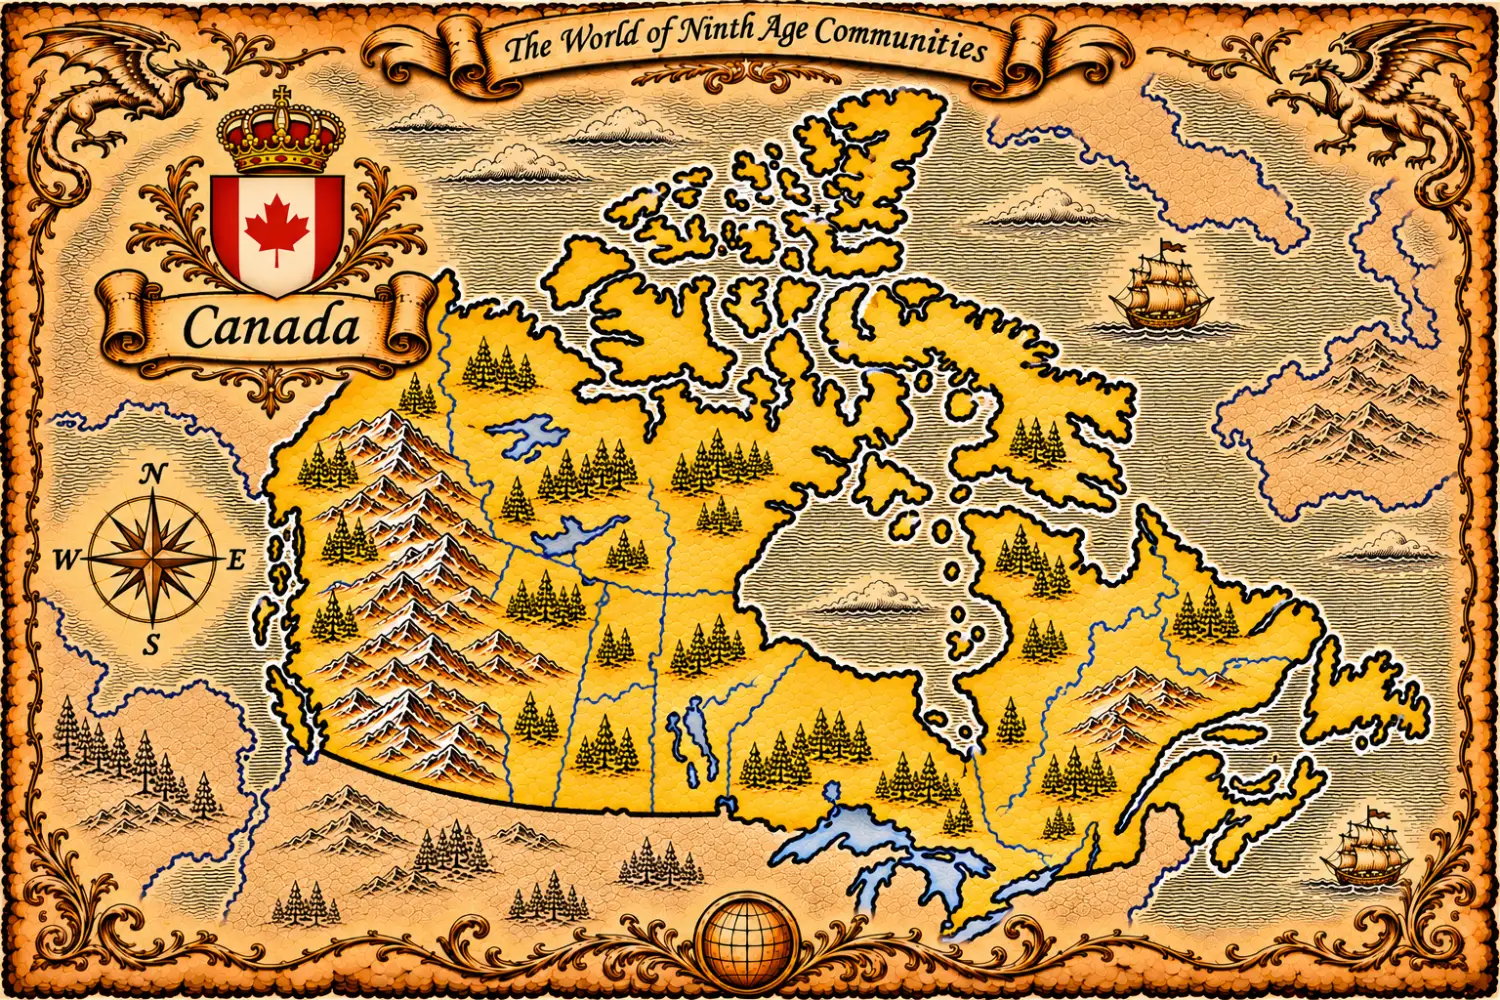
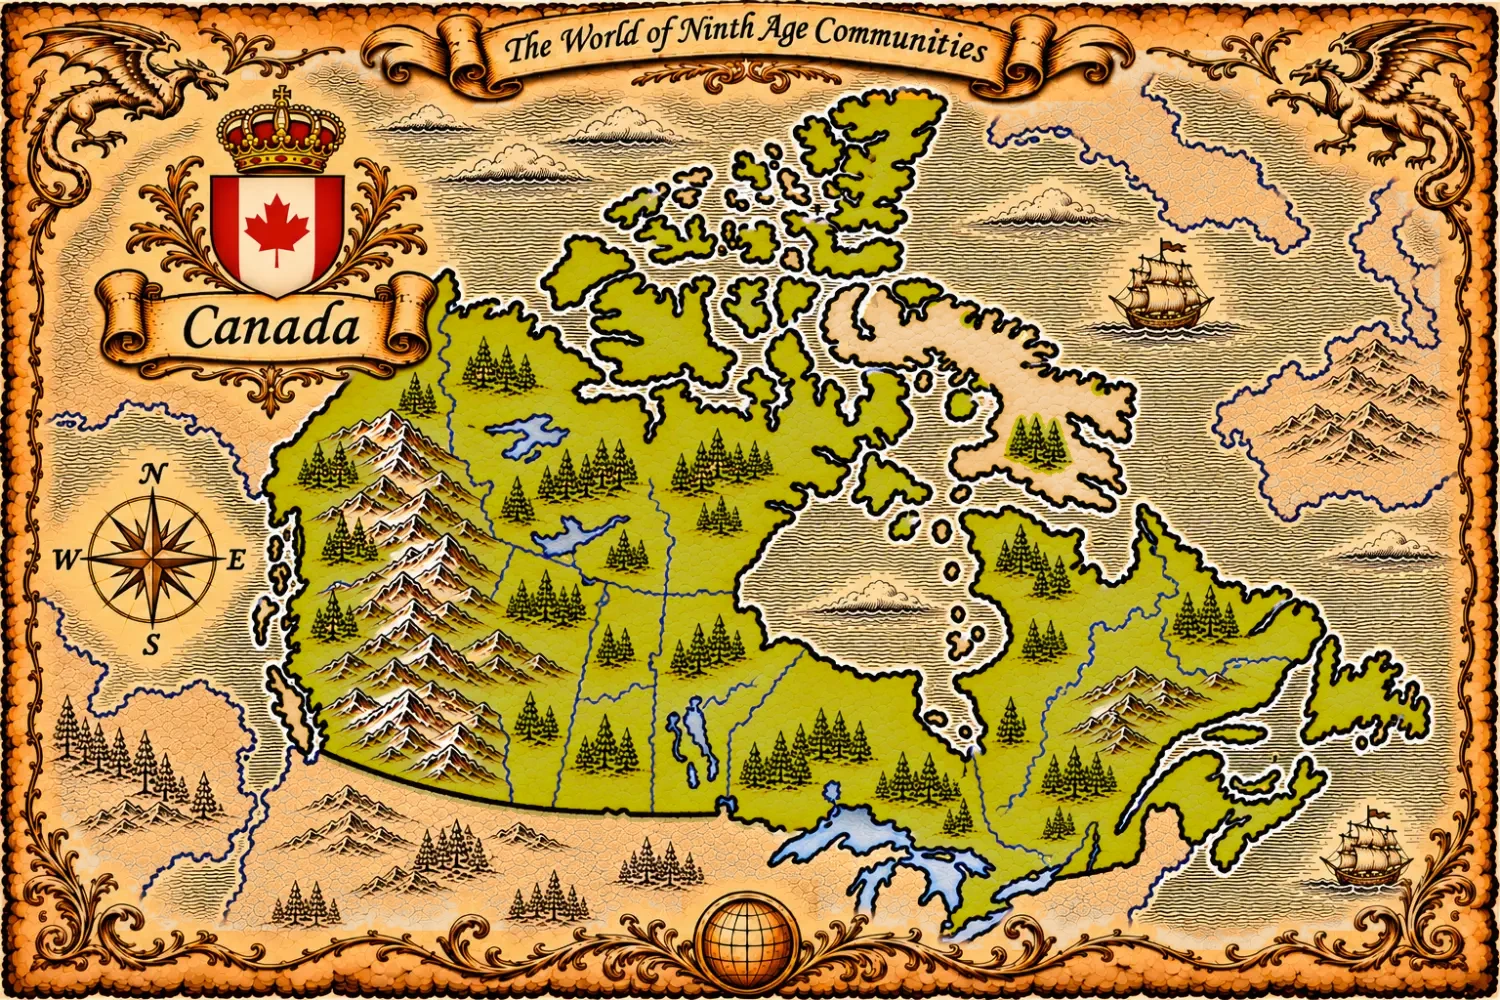
Paint every minimap's featured country grassy green
Adds tools/recolour_green.py, which shifts the gold land to the green of the
Romania map, fades gold given to neighbours to parchment and keeps the gold
originals for build_minimap.py.

diff --git a/tools/recolour_green.py b/tools/recolour_green.py
@@ -1,0 +1,120 @@
+"""Repaints a minimap's gold featured country as grassy green, like the
+Romania and United Kingdom maps were drawn.
+
+    python recolour_green.py ../data/country-maps/poland.json [more configs...]
+
+Only pixels inside the featured country (from its built hit map, plus a few
+pixels for its outline) with a gold-to-brown hue are changed: hue is moved to
+the green of the Romania map and value and saturation are matched to it, so
+ink, trees, rivers and lakes keep their drawing. The gold version is kept as
+assets/country-maps/gold/<name>.webp and is always the starting point, so
+re-running is safe; build_minimap.py reads that copy when it exists, so the
+gold detection keeps working. Run after repaint_land.py, which writes the
+image from its own originals.
+"""
+
+import json
+import shutil
+import sys
+from pathlib import Path
+
+import numpy as np
+from PIL import Image, ImageDraw, ImageFilter
+
+from hitmap_lib import dilate
+
+ROOT = Path(__file__).resolve().parent.parent
+
+# Romania's land in PIL's 0-255 HSV: median hue, saturation and value.
+TARGET_H, TARGET_S, TARGET_V = 40, 235, 190
+
+# Crest and name, compass, title, dragons, globe (fractions, as in build_minimap.py).
+DECOR = [(0.05, 0.08, 0.315, 0.44), (0.03, 0.44, 0.165, 0.76), (0.27, 0, 0.74, 0.10),
+         (0, 0, 0.16, 0.20), (0.84, 0, 1, 0.19), (0.455, 0.88, 0.545, 1)]
+
+
+def recolour(config_path):
+    cfg = json.loads(config_path.read_text(encoding="utf8"))
+    image_path = ROOT / cfg["image"]
+    gold = ROOT / "assets/country-maps/gold" / image_path.name
+    gold.parent.mkdir(parents=True, exist_ok=True)
+    if not gold.exists():
+        shutil.copy(image_path, gold)
+
+    art = Image.open(gold).convert("RGB")
+    hsv = np.asarray(art.convert("HSV")).astype(float)
+    h, s, v = hsv[..., 0], hsv[..., 1], hsv[..., 2]
+    hitmap = np.asarray(Image.open(config_path.with_name(f"{config_path.stem}-hitmap.png")))
+    names = json.loads(config_path.with_name(f"{config_path.stem}-hitmap.json").read_text(encoding="utf8"))["names"]
+    featured = hitmap == names.index(cfg["country"]) + 1
+
+    # Gold, ochre and brown ink count; blue water and grey ink do not.
+    golden = (h >= 8) & (h <= 48) & (s >= 60)
+
+    # The hit map leaves decorations blank, so land of the featured country
+    # under the crest's box is missing from it: spread into bright gold that
+    # touches the country there without crossing ink, then take in the drawing on it.
+    H, W = h.shape
+    reach = Image.new("1", (W, H), 0)
+    ImageDraw.Draw(reach).rectangle([0.2 * W, 0.08 * H, 0.315 * W, 0.44 * H], fill=1)  # right part of the crest's box
+    open_gold = np.asarray(reach) & (hitmap == 0) & (h >= 20) & (h <= 38) & (s >= 150) & (v > 170)
+    grown = featured.copy()
+    for _ in range(600):
+        step = grown.copy()
+        step[1:] |= grown[:-1]
+        step[:-1] |= grown[1:]
+        step[:, 1:] |= grown[:, :-1]
+        step[:, :-1] |= grown[:, 1:]
+        step &= open_gold | featured
+        if (step == grown).all():
+            break
+        grown = step
+    inside = dilate(featured, 3) | (dilate(grown & ~featured, 6) & (hitmap == 0))
+    core = inside & golden & (v > 150)
+    med_h, med_s, med_v = (np.median(c[core]) for c in (h, s, v))
+    print(f"{config_path.stem}: gold median h={med_h:.0f} s={med_s:.0f} v={med_v:.0f}")
+
+    weight = (inside & golden).astype(np.float32)
+    weight *= np.clip((s - 60) / 60, 0, 1)  # fade out on near-grey pixels
+    weight = np.asarray(Image.fromarray((weight * 255).astype(np.uint8)).filter(ImageFilter.GaussianBlur(1.2))) / 255.0
+    weight *= inside
+
+    new_h = np.clip(h + (TARGET_H - med_h), 0, 255)
+    new_s = np.clip(s * (TARGET_S / max(med_s, 1)), 0, 255)
+    new_v = np.clip(v * (TARGET_V / max(med_v, 1)), 0, 255)
+    green = np.stack([new_h, new_s, new_v], axis=-1).astype(np.uint8)
+    green = np.asarray(Image.fromarray(green, "HSV").convert("RGB")).astype(float)
+
+    # Gold the artist gave to neighbours (Northern Ireland on Ireland's map,
+    # Cyprus on Turkey's) fades to the neighbours' parchment instead, so only
+    # the featured country stands out.
+    neighbour = (hitmap > 0) & ~inside
+    plain = neighbour & (s < 140) & (v > 150)
+    if not plain.any():  # no neighbours drawn (Australia)
+        plain = neighbour = np.zeros_like(inside)
+        par_h = par_s = par_v = 0
+    else:
+        par_h, par_s, par_v = (np.median(c[plain]) for c in (h, s, v))
+    # Gold left unlabelled (pieces the hit map never claimed) fades too, away
+    # from the frame and the standard decorations.
+    loose = Image.new("1", (W, H), 0)
+    ImageDraw.Draw(loose).rectangle([0.05 * W, 0.05 * H, 0.95 * W, 0.93 * H], fill=1)
+    for x0, y0, x1, y1 in DECOR:
+        ImageDraw.Draw(loose).rectangle([x0 * W, y0 * H, x1 * W, y1 * H], fill=0)
+    loose = np.asarray(loose) & (hitmap == 0) & ~inside
+    neighbour |= loose
+    foreign = neighbour & golden & (s >= 150) & (v > 170)
+    fade = np.asarray(Image.fromarray((foreign * 255).astype(np.uint8)).filter(ImageFilter.GaussianBlur(1.2))) / 255.0
+    fade *= neighbour
+    parchment = np.stack([np.full_like(h, par_h), s * (par_s / max(med_s, 1)), v * (par_v / max(med_v, 1))], axis=-1)
+    parchment = np.asarray(Image.fromarray(parchment.clip(0, 255).astype(np.uint8), "HSV").convert("RGB")).astype(float)
+
+    px = np.asarray(art).astype(float)
+    out = px * (1 - weight[..., None]) + green * weight[..., None]
+    out = out * (1 - fade[..., None]) + parchment * fade[..., None]
+    Image.fromarray(out.clip(0, 255).astype(np.uint8)).save(image_path, quality=92, method=6)
+    print(f"  wrote {image_path.relative_to(ROOT)}")
+
+
+for arg in sys.argv[1:]:
+    recolour(Path(arg).resolve())

diff --git a/tools/build_minimap.py b/tools/build_minimap.py
@@ -74,7 +74,9 @@ TEMPLATE = {
     "corner bottom right": (0.88, 0.85, 1, 1),
 }
 
-art = Image.open(ROOT / cfg["image"]).convert("RGB")
+# Maps recoloured green by recolour_green.py are detected from their gold copy.
+gold_copy = ROOT / "assets/country-maps/gold" / Path(cfg["image"]).name
+art = Image.open(gold_copy if gold_copy.exists() else ROOT / cfg["image"]).convert("RGB")
 W, H = art.size
 grey = np.asarray(art.convert("L"))
 

diff --git a/README.md b/README.md
@@ -159,6 +159,16 @@ python build_minimap.py ../data/country-maps/poland.json --cells
 region numbered and its coordinates, to help pick the points. The build
 warns when a point lands on a pen line or two countries share a region.
 
+4. If the country is painted gold, make it grassy green like the rest, after
+   the build (and after `repaint_land.py`, if used):
+
+```bash
+python recolour_green.py ../data/country-maps/poland.json
+```
+
+The gold version is kept in `assets/country-maps/gold/`; re-running starts
+from it, and `build_minimap.py` reads it so the gold detection keeps working.
+
 ## Credits
 
 - Country boundaries: [Natural Earth](https://www.naturalearthdata.com/) via
